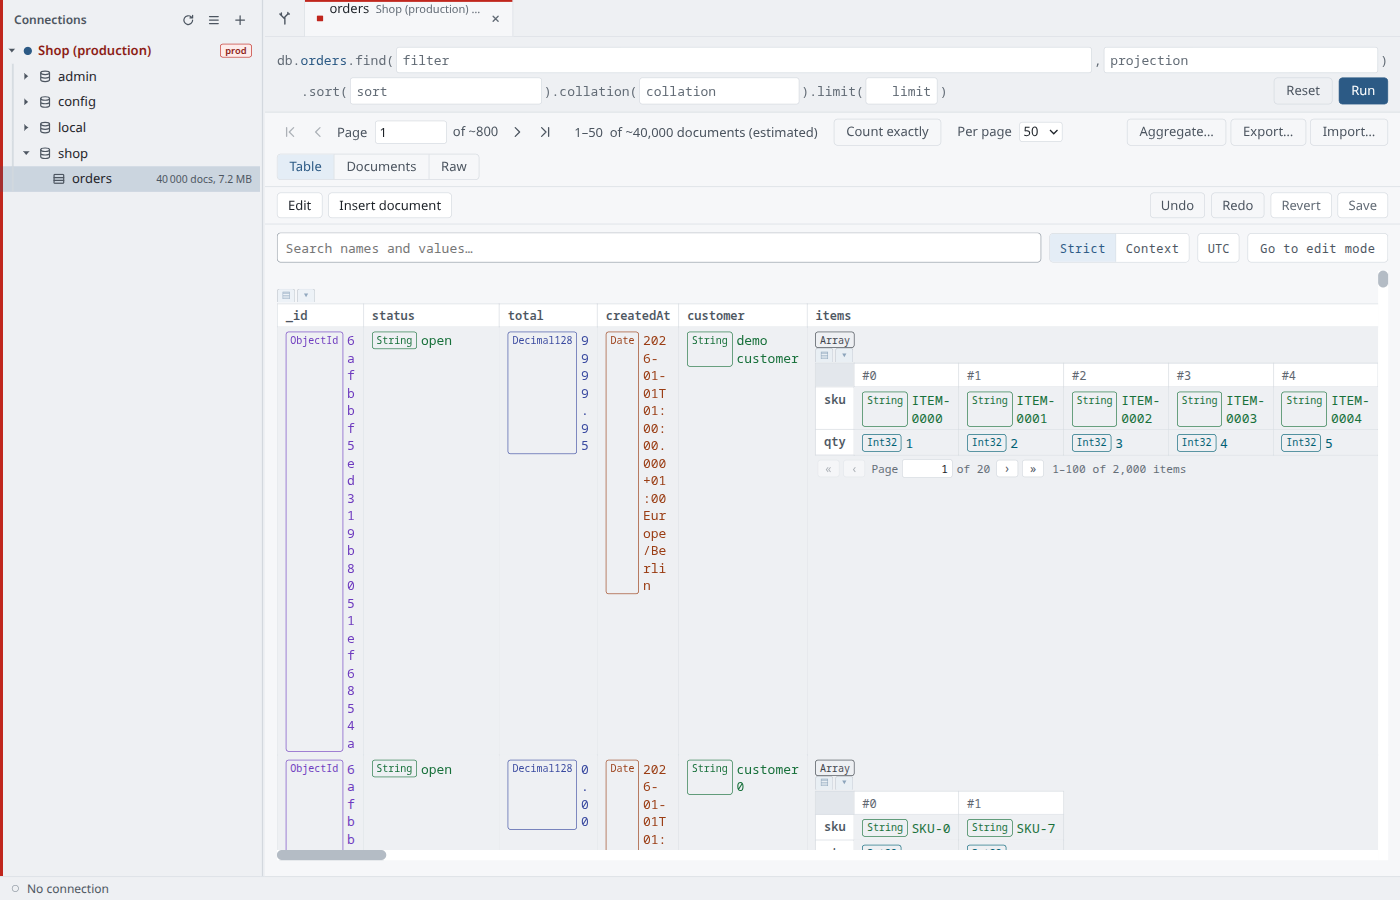
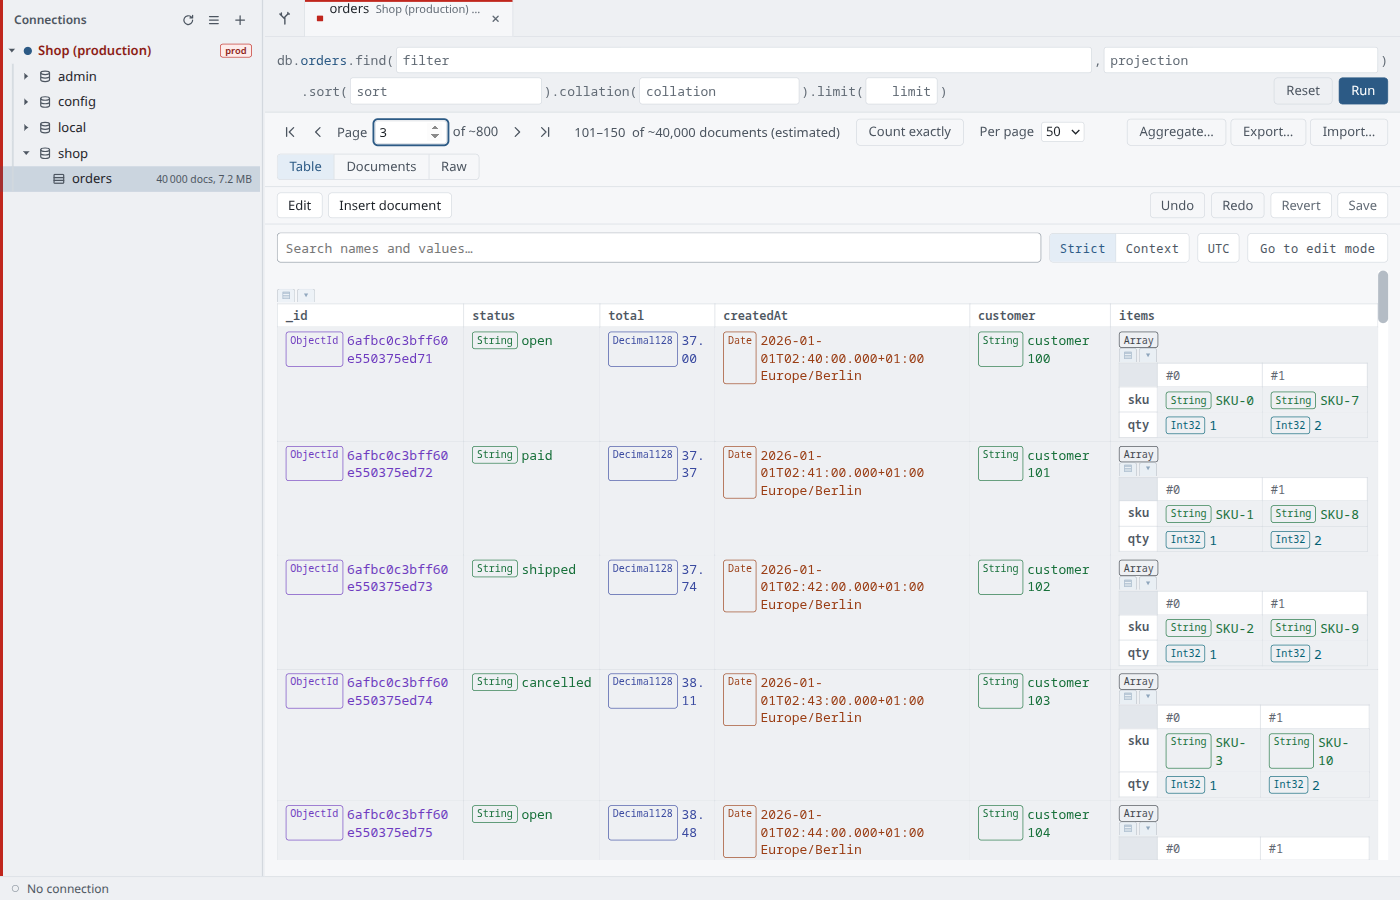
m1-e2e: review fixes (sort/filter proven, screenshots); follow-up task ui-polish-m1

diff --git a/test/e2e/m1/demo.e2e.ts b/test/e2e/m1/demo.e2e.ts
@@ -27,15 +27,19 @@ import {
  *        the OS keychain; mark the connection production; connect.
  *        -> welcome "New connection", paste the URI into the Connection string tab; the form tab
  *           shows host, port, user, TLS + CA file, replica set; the password is not in
- *           connections.json, secrets.bin was written and does not hold it in plain text;"Production" checked; Test connection
- *           succeeds; Save; connect from the sidebar; the shell shows the production accent.
+ *           connections.json, secrets.bin was written and does not hold it in plain text;
+ *           "Production" checked (scrolled into view, own screenshot); Test connection succeeds;
+ *           Save; connect from the sidebar; the shell shows the production accent.
  * [x] 3. Sidebar shows databases and collections (with document counts and sizes); open `orders`.
  *        -> `shop` and `orders` in the tree, "Stats" shows "40,000 docs, …"; click opens the tab.
  * [x] 4. Table, one row per document, 50 per page; page 3 of ~40 000 one click away; filter
  *        `{status: "open", total: {$gt: 100}}` and a sort; results update.
- *        -> 50 table rows, "~40,000", "of ~800"; page field 3 -> rows 101–150; filter + sort
- *           `{total: -1}` -> only open orders, totals above 100 in descending
- *           order, the first document is the largest open order.
+ *        -> 50 table rows, "~40,000", "of ~800", the demo document is not on page 1 (it has the
+ *           largest `_id`, so it is last in default order); page field 3 -> rows 101–150
+ *           (screenshot); filter + sort `{total: -1}` -> back on page 1, only open orders, totals
+ *           above 100 in descending order, the first document is the demo document (the largest
+ *           open total); "Count exactly" equals the driver's countDocuments for the same filter,
+ *           which is below the number of open orders (proves `total: {$gt: 100}`).
  * [x] 5. Open a document: nested `items` (2 000 subdocuments) pages inside the document; `_id`
  *        ObjectId, `createdAt` Date, `total` Decimal128.
  *        -> list view, first document: "1–100 of 2,000 items", Next -> "101–200 …"; type badges
@@ -78,8 +82,12 @@ interface Order {
   reviewed?: string;
 }
 
-/** The demo document: open, the largest total, 2 000 items. */
-const DEMO_ID = new ObjectId();
+/**
+ * The demo document: open, the largest total, 2 000 items. Its `_id` is generated in `seed()` after
+ * all other orders, so it is the largest `_id` and last in default (`_id`) order: being first after
+ * the step-4 sort proves the sort.
+ */
+let DEMO_ID: ObjectId;
 
 let server: E2EMongo | undefined;
 let unavailable: string | undefined;
@@ -130,6 +138,8 @@ async function seed(mongo: E2EMongo): Promise<void> {
       });
       if (batch.length === 5_000) await c.insertMany(batch.splice(0));
     }
+    if (batch.length > 0) await c.insertMany(batch.splice(0));
+    DEMO_ID = new ObjectId();
     batch.push({
       _id: DEMO_ID,
       status: 'open',
@@ -142,6 +152,12 @@ async function seed(mongo: E2EMongo): Promise<void> {
       })),
     });
     await c.insertMany(batch);
+    const last = await c
+      .find({}, { projection: { _id: 1 } })
+      .sort({ _id: -1 })
+      .limit(1)
+      .next();
+    if (!last?._id.equals(DEMO_ID)) throw new Error('the demo document must have the largest _id');
   });
 }
 
@@ -237,7 +253,11 @@ test('M1 demo, steps 2–7, against a TLS replica set', async ({ window, userDat
     await expect(window.getByTestId('field-replica-set')).toHaveValue('rs0');
     await expect(window.getByTestId('uri-preview')).not.toContainText(user.password);
 
-    await window.getByTestId('field-production').check();
+    const production = window.getByTestId('field-production');
+    await production.check();
+    await expect(production).toBeChecked();
+    await production.scrollIntoViewIfNeeded();
+    await shot(window, 'step-2-production.png');
     await window.getByTestId('secret-saved').check();
     await window.getByTestId('test-connection').click();
     await expect(window.getByTestId('test-ok')).toContainText('Connected in', { timeout: 30_000 });
@@ -282,13 +302,22 @@ test('M1 demo, steps 2–7, against a TLS replica set', async ({ window, userDat
     await expect(
       window.locator('app-json-explorer .json-output > app-json-table > .tw > table > tbody > tr'),
     ).toHaveCount(50);
-    await shot(window, 'step-4-table.png');
+    // Default order is `_id`: the demo document (largest `_id`) is not on page 1.
+    const raw = window.getByTestId('raw-text');
+    await window.getByTestId('view-raw').click();
+    await expect(raw).toContainText('ObjectId("');
+    await expect(raw).not.toContainText(DEMO_ID.toHexString());
+    await window.getByTestId('view-table').click();
 
     // Page 3 by its number in the page field (Next twice gets there too).
     await window.getByTestId('pager-page').fill('3');
     await window.getByTestId('pager-page').press('Enter');
     await expect(rows).toContainText(/^101–150 of ~40,000/);
     await expect(window.getByTestId('pager-page')).toHaveValue('3');
+    await expect(
+      window.locator('app-json-explorer .json-output > app-json-table > .tw > table > tbody > tr'),
+    ).toHaveCount(50);
+    await shot(window, 'step-4-table.png');
 
     await window.getByTestId('query-filter').fill('{status: "open", total: {$gt: 100}}');
     await window.getByTestId('query-sort').fill('{total: -1}');
@@ -297,7 +326,6 @@ test('M1 demo, steps 2–7, against a TLS replica set', async ({ window, userDat
     await expect(rows).toHaveText('1–50');
     await expect(window.getByTestId('pager-page')).toHaveValue('1');
     await window.getByTestId('view-raw').click();
-    const raw = window.getByTestId('raw-text');
     await expect(raw).toContainText(`ObjectId("${DEMO_ID.toHexString()}")`);
     const text = (await raw.textContent()) ?? '';
     expect(text).not.toMatch(/status: "(paid|shipped|cancelled)"/);
@@ -310,6 +338,24 @@ test('M1 demo, steps 2–7, against a TLS replica set', async ({ window, userDat
     expect(totals.length).toBeGreaterThan(1);
     expect(totals.every((t) => t > 100)).toBe(true);
     expect(totals).toEqual([...totals].sort((a, b) => b - a));
+
+    // The whole filter, `total > 100` included: the exact count equals the driver's count for the
+    // same filter, which is below the number of open orders.
+    const [expected, open] = await withOrders(mongo, (c) =>
+      Promise.all([
+        c.countDocuments({ status: 'open', total: { $gt: Decimal128.fromString('100') } }),
+        c.countDocuments({ status: 'open' }),
+      ]),
+    );
+    expect(expected).toBeLessThan(open);
+    await window.getByTestId('pager-count').click();
+    await expect(rows).toContainText(`of ${expected.toLocaleString('en-US')} documents`);
+    // Counting keeps page 1 with the demo document first (steps 5–7 rely on it).
+    await expect(rows).toContainText(/^1–50 /);
+    await expect(window.getByTestId('pager-page')).toHaveValue('1');
+    expect(/ObjectId\("([0-9a-f]{24})"\)/.exec((await raw.textContent()) ?? '')?.[1]).toBe(
+      DEMO_ID.toHexString(),
+    );
     await shot(window, 'step-4-filter-sort.png');
   });
 

diff --git a/reviews/m1-e2e/fixes.md b/reviews/m1-e2e/fixes.md
@@ -1,0 +1,127 @@
+# Fix Report
+
+Date: 2026-11-17
+
+Task: m1-e2e - M1: End-to-end demo steps 2–7
+
+Scope: current task; findings CR-1, CR-2 from `reviews/m1-e2e/review.md` and the step-4 filter gap
+from `reviews/m1-e2e/tests.md` (coverage table), as supplied by the parent worker. Base
+3882e6b4ff401fc9545f810630aaa05e309c7f5d. Only test code changed (`test/e2e/m1/demo.e2e.ts`).
+
+## Fixed findings
+
+### CR-1 — Step 4 sort not proven: the demo document was already first in `_id` order
+
+Files changed:
+- `test/e2e/m1/demo.e2e.ts`
+
+Problem:
+`DEMO_ID = new ObjectId()` ran at module load, before every seeded `_id`, so the demo document was
+first in the default `_id` paging order and being first after the `{total: -1}` sort proved nothing.
+
+Fix:
+`DEMO_ID` is now generated inside `seed()` after the 39,999 other orders are inserted (the last
+partial batch is flushed first), so it has the largest `_id`. `seed()` asserts this with the driver
+(`find().sort({_id: -1}).limit(1)` must return the demo id). Step 4 checks in the Raw view that the
+demo document is not on the unfiltered page 1, and after filter + sort that it is the first
+document; the test-writer's "totals > 100 and descending" checks are kept. Steps 5–7 still use the
+first document of page 1, which the sort makes the demo document.
+
+Validation:
+- `npm run test:e2e -- m1` — Pass (1 passed, run twice)
+
+### TW-1 — `total: {$gt: 100}` part of the step-4 filter was not proven (tests.md coverage gap)
+
+Files changed:
+- `test/e2e/m1/demo.e2e.ts`
+
+Problem:
+With sort `{total: -1}` the first page only holds totals far above 100, so a filter that ignored
+`$gt` would still pass.
+
+Fix:
+After the sort checks, the test computes the driver's
+`countDocuments({status: 'open', total: {$gt: Decimal128("100")}})` and
+`countDocuments({status: 'open'})`, asserts the first is smaller (so the check discriminates), clicks
+"Count exactly" (`pager-count`) and expects `pager-rows` to contain
+`of <count formatted en-US> documents` (observed: "1–50 of 7,500 documents"; 10,000 orders are
+open). It then asserts the pager is still on page 1 ("1–50", page field 1) and that the demo
+document is still the first in the raw text, so steps 5–7 start from the same state.
+
+Validation:
+- `npm run test:e2e -- m1` — Pass
+
+### CR-2 — Step 3 and step 4 table screenshots were identical; step 2 did not show "Production"
+
+Files changed:
+- `test/e2e/m1/demo.e2e.ts`
+
+Problem:
+`step-4-table.png` was taken before any change from the step-3 state (byte-identical image), and
+`step-2-connection-form.png` showed the top of the form with the Production checkbox below the fold.
+
+Fix:
+`step-4-table.png` is now taken after jumping to page 3 (rows "101–150", 50 table rows asserted).
+Step 2 asserts the Production box is checked, scrolls it into view and takes an extra screenshot
+`step-2-production.png`; the existing `step-2-connection-form.png` is unchanged. Screenshots go to
+the default `test-results/m1`; all 9 PNGs now have distinct sha256 hashes, and the three changed or
+new images were viewed (Production checked and visible; table on page 3 "101–150 of ~40,000";
+filter/sort view "1–50 of 7,500 documents" with the demo document first).
+
+Validation:
+- `npm run test:e2e -- m1` — Pass
+- `sha256sum test-results/m1/*.png` — 9 distinct hashes
+
+### Checklist comment update (parent item 4)
+
+Files changed:
+- `test/e2e/m1/demo.e2e.ts`
+
+Problem:
+The checklist did not describe the new checks, and one step-2 line exceeded the line width.
+
+Fix:
+Step 2 mentions the Production screenshot; step 4 describes the demo document not being on the
+default page 1, the page-3 screenshot, the return to page 1 after the query, and the exact count
+against the driver's count. Comment reflowed.
+
+Validation:
+- `npx prettier --check test/e2e/m1` — Pass
+
+## Not fixed
+
+### CR-3 — Product defects seen in screenshots are only recorded as an assumption
+
+Status:
+Out of scope
+
+Reason:
+The review assigns this to the parent worker (filing a follow-up task with `tasks.py new`); it
+requires no code change in this task and the fixer must not change TFP task state.
+
+## Validation summary
+
+Focused tests:
+- `npm run test:e2e -- m1` — Pass (1 passed, 11.6s; run a second time: 1 passed, 11.8s)
+- `npx eslint test/e2e/m1 --max-warnings 0` — Pass
+- `npx prettier --check test/e2e/m1` — Pass
+
+Full test suite:
+- `npm run check` (via `.taskcheck`) — Pass (root: 64 files, 3530 tests; renderer: 80 files, 2418 tests). Full `npm run test:int` / full `npm run test:e2e` not run: only the M1 e2e file changed.
+
+Lint/type-check/build:
+- Included in `npm run check` — Pass; the e2e run rebuilt the app successfully.
+
+`.taskcheck`:
+- Pass
+
+Remaining unresolved findings:
+1 (CR-3, out of scope for the fixer; parent worker action)
+
+Note for the parent worker: the run produces a new screenshot, `test-results/m1/step-2-production.png`,
+and new content for `step-4-table.png` and `step-4-filter-sort.png`; the committed set in
+`reviews/m1-e2e/` was not touched by the fixer.
+
+## Final status
+
+All validated findings fixed and validation passed.

diff --git a/tasks/ui-polish-m1.md b/tasks/ui-polish-m1.md
@@ -1,0 +1,17 @@
+---
+title: Round the Test connection latency; status bar shows the active tab's connection
+status: todo
+owner:
+deps: []
+touches: [packages/renderer/src/app/connections/connection-editor.html,packages/renderer/src/app/layout]
+prio: 2
+---
+## Goal
+Two UI bugs seen in the M1 demo screenshots (reviews/m1-e2e/, task m1-e2e).
+
+## Acceptance criteria
+- [ ] Test connection shows the latency rounded (e.g. "Connected in 2 ms", not "2.1195470000000114 ms"); unit test
+- [ ] While a collection tab of a connected profile is active, the status bar shows that connection instead of "No connection" (see reviews/m1-e2e/step-3-sidebar.png); unit test, and the m1 e2e suite still passes
+
+## Notes
+Found during m1-e2e review (finding CR-3).
